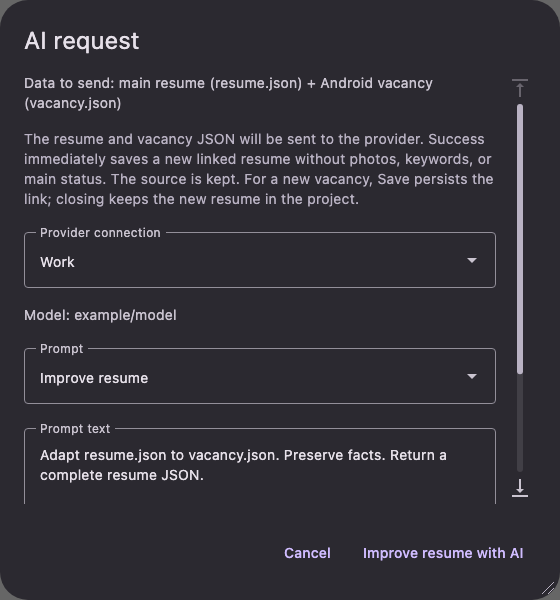
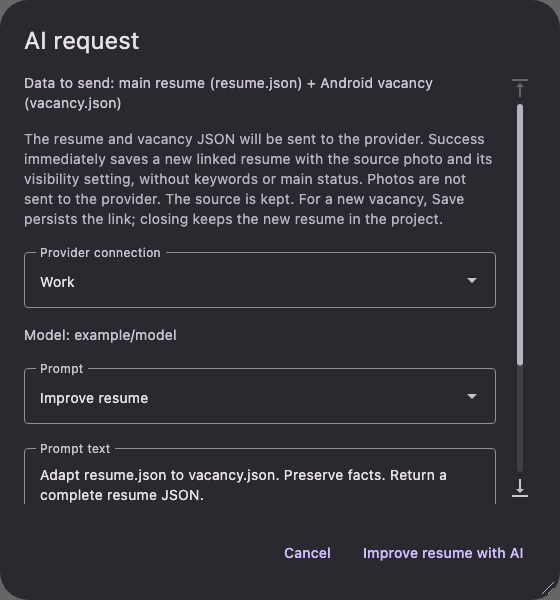
fix: preserve AI prompt choices across vacancies and inherit resume photos
- Remember the last launched assessment and improvement prompts globally
- Use existing per-vacancy preferences as a fallback
- Inherit the source photo and Include in resume flag in AI adaptations
- Keep photos out of JSON and AI requests, preserving safe file cleanup
- Update documentation, tests and the AI dialog golden

Validation: 1040 tests, goldens, lint, coverage and desktop compilation passed

diff --git a/shared/src/jvmTest/kotlin/reframecv/ui/components/projects/vacancies/VacancyPromptPreferencesTest.kt b/shared/src/jvmTest/kotlin/reframecv/ui/components/projects/vacancies/VacancyPromptPreferencesTest.kt
@@ -8,6 +8,8 @@ import kotlinx.coroutines.CompletableDeferred
 import kotlinx.coroutines.runBlocking
 import kotlinx.coroutines.withTimeout
 import kotlinx.serialization.json.JsonPrimitive
+import kotlinx.serialization.json.buildJsonObject
+import kotlinx.serialization.json.put
 import reframecv.domain.models.prompts.Prompt
 import reframecv.domain.models.prompts.PromptComponent
 import reframecv.domain.models.providers.ApiProviderType
@@ -77,8 +79,7 @@ class VacancyPromptPreferencesTest : ComponentTest() {
         runOnUiThread { dialog.onClose() }
     }
 
-    @Test
-    fun draftRemembersBothOperationsAndFirstSavePersistsThemForReopenedPage() = runBlocking {
+    private suspend fun setup() {
         dependencies.providerSettingsUseCases.save(
             ProviderConnection(
                 type = ApiProviderType.OpenRouter,
@@ -96,39 +97,77 @@ class VacancyPromptPreferencesTest : ComponentTest() {
             Prompt(text = "Improve", component = PromptComponent.Vacancies),
         )
         dependencies.resumesRepository.records.value = listOf(Resume(1, 7, "Resume", 0, 0))
+    }
+    private fun record(id: Long) = Vacancy(
+        id = id,
+        projectId = 7,
+        name = "Saved",
+        description = "Kotlin",
+        createdAt = 0,
+        updatedAt = 0,
+        resumes = listOf(VacancyResume(1)),
+    )
+    private suspend fun assertChoices(
+        editor: DefaultVacancyEditorComponent,
+        assessment: Long,
+        improvement: Long,
+    ) {
+        val assessmentDialog = open(editor, improvement = false)
+        runOnUiThread {
+            assertEquals(assessment, assessmentDialog.state.value.promptId)
+            assessmentDialog.onClose()
+        }
+        val improvementDialog = open(editor, improvement = true)
+        runOnUiThread {
+            assertEquals(improvement, improvementDialog.state.value.promptId)
+            improvementDialog.onClose()
+        }
+    }
+
+    @Test
+    fun lastUsedPromptsAreSharedAcrossVacanciesDraftsAndFirstSave() = runBlocking {
+        setup()
         val draft = editor()
         use(open(draft, improvement = false), 1)
         use(open(draft, improvement = true), 2)
-        val again = open(draft, improvement = false)
-        runOnUiThread {
-            assertEquals(1L, again.state.value.promptId)
-            again.onClose()
-        }
-        assertTrue(dependencies.screenStatesRepository.states.value.isEmpty())
-        val saved =
-            Vacancy(
-                id = 12,
-                projectId = 7,
-                name = "Saved",
-                description = "Kotlin",
-                createdAt = 0,
-                updatedAt = 0,
-                resumes = listOf(VacancyResume(1)),
-            )
-        runOnUiThread { draft.onSaveCompleted(VacancySaveState.Idle, saved) }
+        assertChoices(draft, 1, 2)
         val stored = dependencies.screenStateUseCases.load(
-            ScreenStateOwner(ScreenType.Vacancy, 12, 7),
+            ScreenStateOwner(ScreenType.Application),
         )!!
         assertEquals(JsonPrimitive(1L), stored.states["resume_assessment_prompt_id"])
         assertEquals(JsonPrimitive(2L), stored.states["resume_improvement_prompt_id"])
-        assertEquals("expanded", stored.text("job_details"))
-        val reopened = editor(saved)
-        val assessment = open(reopened, improvement = false)
-        runOnUiThread {
-            assertEquals(1L, assessment.state.value.promptId)
-            assessment.onClose()
-        }
-        val improvement = open(reopened, improvement = true)
-        runOnUiThread { assertEquals(2L, improvement.state.value.promptId) }
+        assertChoices(editor(record(12)), 1, 2)
+        assertChoices(editor(record(13)), 1, 2)
+        assertChoices(editor(), 1, 2)
+        runOnUiThread { draft.onSaveCompleted(VacancySaveState.Idle, record(14)) }
+        assertChoices(editor(record(14)), 1, 2)
+        val document = dependencies.screenStateUseCases.load(
+            ScreenStateOwner(ScreenType.Vacancy, 14, 7),
+        )!!
+        assertEquals("expanded", document.text("job_details"))
+        assertTrue("resume_assessment_prompt_id" !in document.states)
+    }
+
+    @Test
+    fun legacyVacancyChoicesRemainAFallbackUntilAGlobalChoiceIsUsed() = runBlocking {
+        setup()
+        val oldOwner = ScreenStateOwner(ScreenType.Vacancy, 12, 7)
+        dependencies.screenStateUseCases.update(
+            oldOwner,
+            buildJsonObject {
+                put("resume_assessment_prompt_id", 2)
+                put("resume_improvement_prompt_id", 1)
+                put("job_details", "collapsed")
+            },
+        )
+        val old = editor(record(12))
+        assertChoices(old, 2, 1)
+        use(open(old, improvement = false), 1)
+        use(open(old, improvement = true), 2)
+        assertChoices(editor(record(12)), 1, 2)
+        assertChoices(editor(record(13)), 1, 2)
+        val legacy = dependencies.screenStateUseCases.load(oldOwner)!!
+        assertEquals(JsonPrimitive(2L), legacy.states["resume_assessment_prompt_id"])
+        assertEquals("collapsed", legacy.text("job_details"))
     }
 }

diff --git a/shared/src/jvmTest/kotlin/reframecv/usecase/ImproveResumeUseCaseTest.kt b/shared/src/jvmTest/kotlin/reframecv/usecase/ImproveResumeUseCaseTest.kt
@@ -6,7 +6,6 @@ import kotlin.test.Test
 import kotlin.test.assertEquals
 import kotlin.test.assertFailsWith
 import kotlin.test.assertFalse
-import kotlin.test.assertNull
 import kotlin.test.assertTrue
 import kotlinx.coroutines.CancellationException
 import kotlinx.coroutines.runBlocking
@@ -64,7 +63,7 @@ class ImproveResumeUseCaseTest : ComponentTest() {
     }
 
     @Test
-    fun adaptationUsesLocalTimestampAndKeepsSourceWithoutCopyingItsPhotoOrKeywords() = runBlocking {
+    fun adaptationKeepsSourceAndInheritsPhotoWithoutCopyingKeywords() = runBlocking {
         val connection = setup()
         val time = LocalDateTime.of(
             2026,
@@ -86,7 +85,8 @@ class ImproveResumeUseCaseTest : ComponentTest() {
         assertEquals(source.id, result.sourceResumeId)
         assertEquals(content, result.content)
         assertEquals(emptyList(), result.keywords)
-        assertNull(result.photoPath)
+        assertEquals(source.photoPath, result.photoPath)
+        assertEquals(source.photoVisible, result.photoVisible)
         assertEquals(source, dependencies.resumesRepository.records.value.first())
         assertEquals(1L, dependencies.resumesRepository.mainResumeIds.value[7])
         val stored = dependencies.vacanciesRepository.records.value.single()
@@ -137,7 +137,14 @@ class ImproveResumeUseCaseTest : ComponentTest() {
     fun draftVacancyKeepsNewResumeInProjectAndSendsOnlyPortableContent() = runBlocking {
         val connection = setup()
         dependencies.vacanciesRepository.records.value = emptyList()
-        val result = dependencies.improveResume(source, vacancy.copy(id = 0), connection, "Improve")
+        val result = dependencies.improveResume(
+            source.copy(photoVisible = false),
+            vacancy.copy(id = 0),
+            connection,
+            "Improve",
+        )
+        assertEquals(source.photoPath, result.photoPath)
+        assertFalse(result.photoVisible)
         assertEquals(2, dependencies.resumesRepository.records.value.size)
         assertEquals(source.id, result.sourceResumeId)
         assertTrue(dependencies.vacanciesRepository.records.value.isEmpty())

diff --git a/shared/src/jvmTest/kotlin/reframecv/repository/ResumePhotoPersistenceTest.kt b/shared/src/jvmTest/kotlin/reframecv/repository/ResumePhotoPersistenceTest.kt
@@ -119,4 +119,37 @@ class ResumePhotoPersistenceTest : WorkspaceDatabaseTest() {
         assertContentEquals(original, Files.readAllBytes(source))
         return path
     }
+
+    @Test
+    fun adaptationsKeepInheritedPhotosWhenEitherVersionIsDeletedOrReplaced() = runBlocking {
+        val repository = LocalResumesRepository(database.resumeDao(), photos)
+        val project = project()
+        for (deleteSourceFirst in listOf(true, false)) {
+            val path = prepare("inherited-$deleteSourceFirst", Color.GREEN)
+            val source = repository.createSaved(
+                resume(project).copy(photoPath = path, photoVisible = false),
+                MainResumeChange.Keep,
+            )
+            val adaptation = repository.createAdaptation(
+                source.copy(id = 0, sourceResumeId = source.id, keywords = emptyList()),
+                null,
+            )
+            val stored = repository.observeResumes(project).first().single {
+                it.id == adaptation.id
+            }
+            assertEquals(path, stored.photoPath)
+            assertFalse(stored.photoVisible)
+            val removed = if (deleteSourceFirst) source else adaptation
+            val retained = if (deleteSourceFirst) adaptation else source
+            repository.delete(removed.id)
+            assertNotNull(storage.read(path))
+            val current = repository.observeResumes(project).first().single { it.id == retained.id }
+            val replacement = prepare("replacement-$deleteSourceFirst", Color.BLUE)
+            repository.update(current.copy(photoPath = replacement))
+            assertNull(storage.read(path))
+            assertNotNull(storage.read(replacement))
+            repository.delete(retained.id)
+            assertNull(storage.read(replacement))
+        }
+    }
 }

diff --git a/shared/src/commonMain/kotlin/reframecv/ui/components/projects/vacancies/editor/VacancyEditorComponent.kt b/shared/src/commonMain/kotlin/reframecv/ui/components/projects/vacancies/editor/VacancyEditorComponent.kt
@@ -106,12 +106,18 @@ class DefaultVacancyEditorComponent(
     private val assessmentPrompt = AiPromptPreference(
         componentContext,
         "resume_assessment_prompt_id",
-        initialVacancy?.let { ScreenStateOwner(ScreenType.Vacancy, it.id, it.projectId) },
+        ScreenStateOwner(ScreenType.Application),
+        fallbackOwner = initialVacancy?.let {
+            ScreenStateOwner(ScreenType.Vacancy, it.id, it.projectId)
+        },
     )
     private val improvementPrompt = AiPromptPreference(
         componentContext,
         "resume_improvement_prompt_id",
-        initialVacancy?.let { ScreenStateOwner(ScreenType.Vacancy, it.id, it.projectId) },
+        ScreenStateOwner(ScreenType.Application),
+        fallbackOwner = initialVacancy?.let {
+            ScreenStateOwner(ScreenType.Vacancy, it.id, it.projectId)
+        },
     )
     private var persistedVacancy = initialVacancy
     override val initialVacancy: Vacancy? get() = persistedVacancy
@@ -294,8 +300,6 @@ class DefaultVacancyEditorComponent(
             persistedVacancy = createdVacancy
             val owner =
                 ScreenStateOwner(ScreenType.Vacancy, createdVacancy.id, createdVacancy.projectId)
-            assessmentPrompt.onBindOwner(owner)
-            improvementPrompt.onBindOwner(owner)
             details.onBindOwner(owner)
             resumeSection.onBindOwner(owner)
             letterSection.onBindOwner(owner)

diff --git a/shared/src/commonMain/kotlin/reframecv/ui/components/common/ai/AiPromptPreference.kt b/shared/src/commonMain/kotlin/reframecv/ui/components/common/ai/AiPromptPreference.kt
@@ -13,6 +13,7 @@ class AiPromptPreference(
     context: AppComponentContext,
     private val key: String,
     private var owner: ScreenStateOwner? = null,
+    private val fallbackOwner: ScreenStateOwner? = null,
 ) {
     private val dependencies = context.dependencies
     private val preferences = dependencies.screenStateUseCases
@@ -20,18 +21,20 @@ class AiPromptPreference(
 
     @Suppress("TooGenericExceptionCaught")
     suspend fun load(): Long? {
-        val screen = owner
-        if (lastUsedId != null || screen == null) return lastUsedId
+        val screen = owner ?: return lastUsedId
         return try {
-            (preferences.load(screen)?.states?.get(key) as? JsonPrimitive)
-                ?.takeIf { !it.isString }?.longOrNull?.takeIf { it > 0 }
+            read(screen) ?: lastUsedId ?: fallbackOwner?.let { read(it) }
         } catch (error: CancellationException) {
             throw error
         } catch (error: Exception) {
             report("Load AI prompt preference", error)
-            null
+            lastUsedId
         }
     }
+
+    private suspend fun read(screen: ScreenStateOwner): Long? =
+        (preferences.load(screen)?.states?.get(key) as? JsonPrimitive)
+            ?.takeIf { !it.isString }?.longOrNull?.takeIf { it > 0 }
 
     fun remember(id: Long) {
         require(id > 0)

diff --git a/shared/src/jvmTest/kotlin/reframecv/ui/components/common/ai/AiPromptPreferenceTest.kt b/shared/src/jvmTest/kotlin/reframecv/ui/components/common/ai/AiPromptPreferenceTest.kt
@@ -166,6 +166,25 @@ class AiPromptPreferenceTest : ComponentTest() {
     }
 
     @Test
+    fun globalPreferencesReadNewerChoicesFromOtherInstancesBeforeTheirMemoryCache() = runBlocking {
+        val global = ScreenStateOwner(ScreenType.Application)
+        dependencies.screenStateUseCases.update(owner, buildJsonObject { put("shared", 1) })
+        val first =
+            AiPromptPreference(appComponentContext(), "shared", global, fallbackOwner = owner)
+        assertEquals(1L, first.load())
+        runOnUiThread { first.remember(2) }
+        assertEquals(2L, first.load())
+        val second = AiPromptPreference(appComponentContext(), "shared", global)
+        runOnUiThread { second.remember(1) }
+        assertEquals(1L, first.load())
+        assertEquals(1L, AiPromptPreference(appComponentContext(), "shared", global).load())
+        assertEquals(
+            JsonPrimitive(1L),
+            dependencies.screenStateUseCases.load(owner)!!.states["shared"],
+        )
+    }
+
+    @Test
     fun preferenceStorageFailuresFallBackAndKeepTheUsedSelectionInMemory() = runBlocking {
         val preferences = ScreenStateUseCases(
             object : ScreenStatesRepository {

diff --git a/database/src/commonMain/kotlin/reframecv/repository/LocalResumesRepository.kt b/database/src/commonMain/kotlin/reframecv/repository/LocalResumesRepository.kt
@@ -36,10 +36,12 @@ class LocalResumesRepository(
 
     override suspend fun createAdaptation(record: Resume, vacancyId: Long?): Resume {
         require(record.id == 0L && record.sourceResumeId != null)
-        require(record.photoPath == null && record.keywords.isEmpty())
+        require(record.keywords.isEmpty())
         val timestamp = nowMillis()
         val persisted = record.copy(createdAt = timestamp, updatedAt = timestamp)
-        return persisted.copy(id = dao.createAdaptation(persisted, vacancyId))
+        val save = suspend { dao.createAdaptation(persisted, vacancyId) }
+        val id = photos?.save(record, save) ?: save()
+        return persisted.copy(id = id)
     }
 
     override suspend fun update(record: Resume) = update(record, MainResumeChange.Keep)

diff --git a/domain/src/commonMain/kotlin/reframecv/usecase/ImproveResumeUseCase.kt b/domain/src/commonMain/kotlin/reframecv/usecase/ImproveResumeUseCase.kt
@@ -63,6 +63,8 @@ class ImproveResumeUseCase(
             updatedAt = time,
             content = content,
             sourceResumeId = source.id,
+            photoPath = source.photoPath,
+            photoVisible = source.photoVisible,
         )
         return persist(record, vacancy.id.takeIf { it != 0L })
     }

diff --git a/docs/architecture.md b/docs/architecture.md
@@ -291,7 +291,10 @@ strictly, without tolerant import repair or legacy consent normalization.
 ID as `sourceResumeId`, a name formed as `<source name> + <vacancy internal name> (AI yyyy-MM-dd HH:mm)` in the device's local time,
 and the generated content. Repeated trailing AI timestamps and matching vacancy-name suffixes
 are replaced, so repeated improvement for the same vacancy keeps one vacancy name and one AI timestamp.
-A blank draft vacancy name is omitted; other custom name parts are preserved. Keywords and photo are empty; main-resume selection is unchanged.
+A blank draft vacancy name is omitted; other custom name parts are preserved. Keywords are empty;
+main-resume selection is unchanged. The source photo path and Include in resume flag are inherited
+locally without sending the photo to the provider. Versions share the immutable photo file;
+replacing or deleting a photo removes its file only after the last resume reference is gone.
 The source resume and its assessment are preserved. The new link starts at zero with no
 assessment. Each version can be assessed and improved again independently.
 
@@ -601,15 +604,19 @@ and closes only the dialog; late results are discarded. A single available choic
 selected automatically; multiple choices require selection unless a valid saved prompt
 preference is available. Provider choices and PDF recognition prompt choices are not persisted.
 
-Vacancy assessment and improvement remember their last used prompt independently in
-ScreenState, scoped to the vacancy rather than the linked resume. A validated request launch
-records the selected prompt ID, including attempts that later fail or are cancelled; selecting
-a prompt and closing without running does not replace the preference. Reopening uses the
-current saved prompt text, not previous request-local edits. Deleted, disabled, wrong-scope,
-or malformed saved choices fall back to the ordinary selection rules. Preference read/write
-failures are diagnostic-only and do not block requests. New vacancy drafts retain used IDs
-in memory and bind them to the saved vacancy on first Save. Preferences share the existing
-screen-state write queue and survive dialog/page destruction and application restarts.
+Vacancy assessment and improvement remember their last launched prompt independently in
+application-scoped ScreenState, shared across vacancies, projects and new drafts. Existing
+per-vacancy choices remain a read-only fallback until an application-wide choice is present.
+A validated request launch records the selected prompt ID, including attempts that later fail
+or are cancelled; selecting a prompt and closing without running does not replace the
+preference. Reopening uses the current saved prompt text, not previous request-local edits.
+Deleted, disabled, wrong-scope or malformed saved choices fall back to ordinary selection
+rules. Reads check persisted state before in-memory choices so retained editors observe
+newer selections from other pages. Preference read/write failures are diagnostic-only and
+retain the last used in-memory selection. Global preferences are saved without waiting for
+vacancy Save; other vacancy view state and cover-letter prompt preferences retain their
+existing document scope. Preferences share the screen-state write queue and survive
+application restarts.
 The database schema is unchanged by AI request handling.
 
 The Settings overview exposes matching text navigation entries for API Providers and Prompts.
